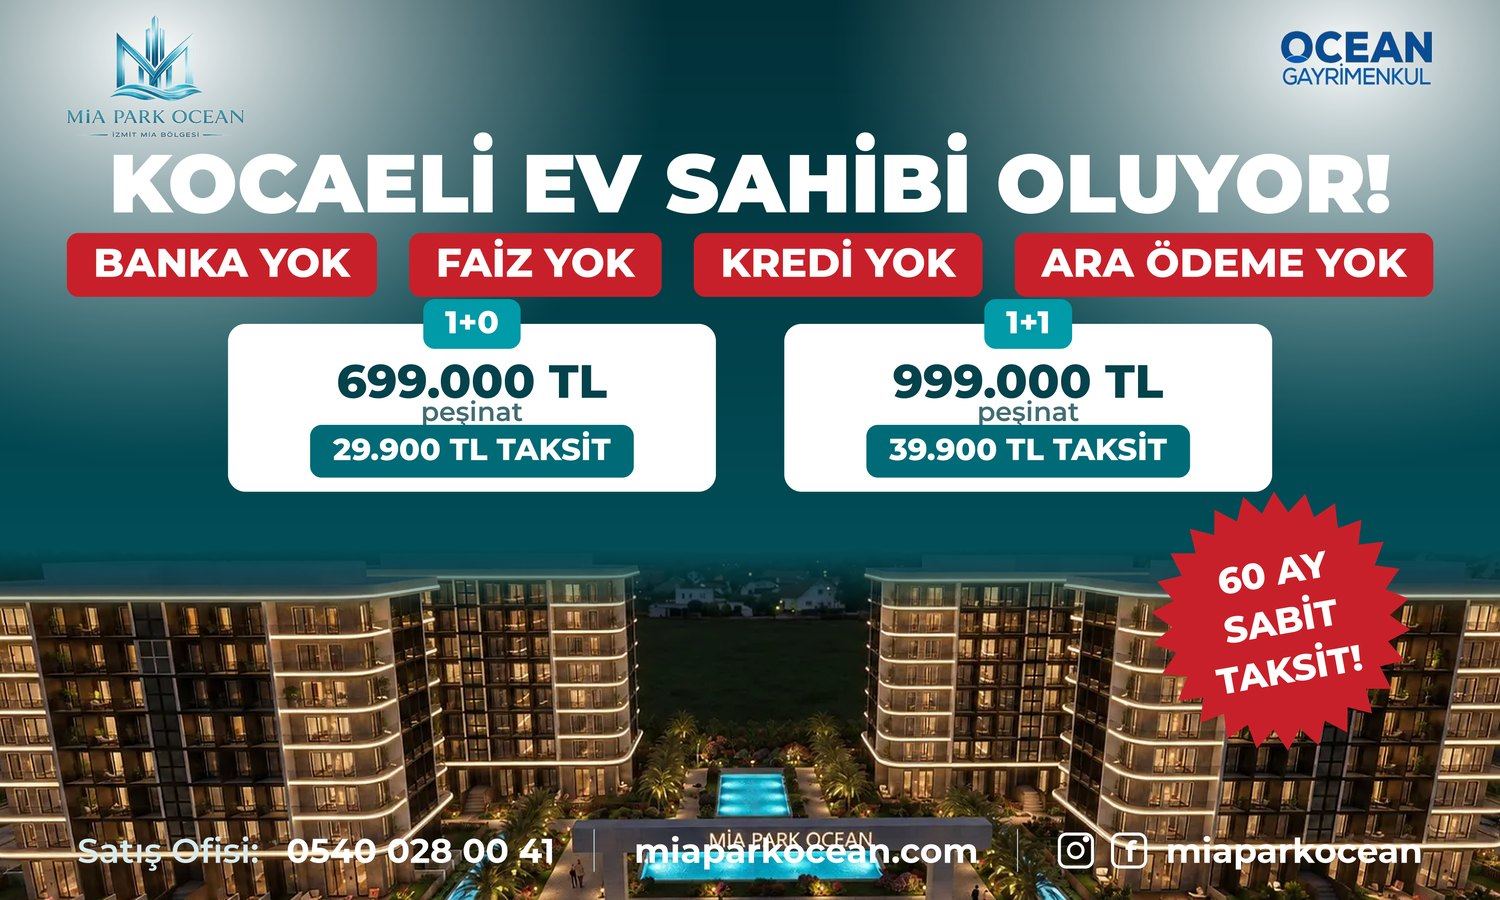
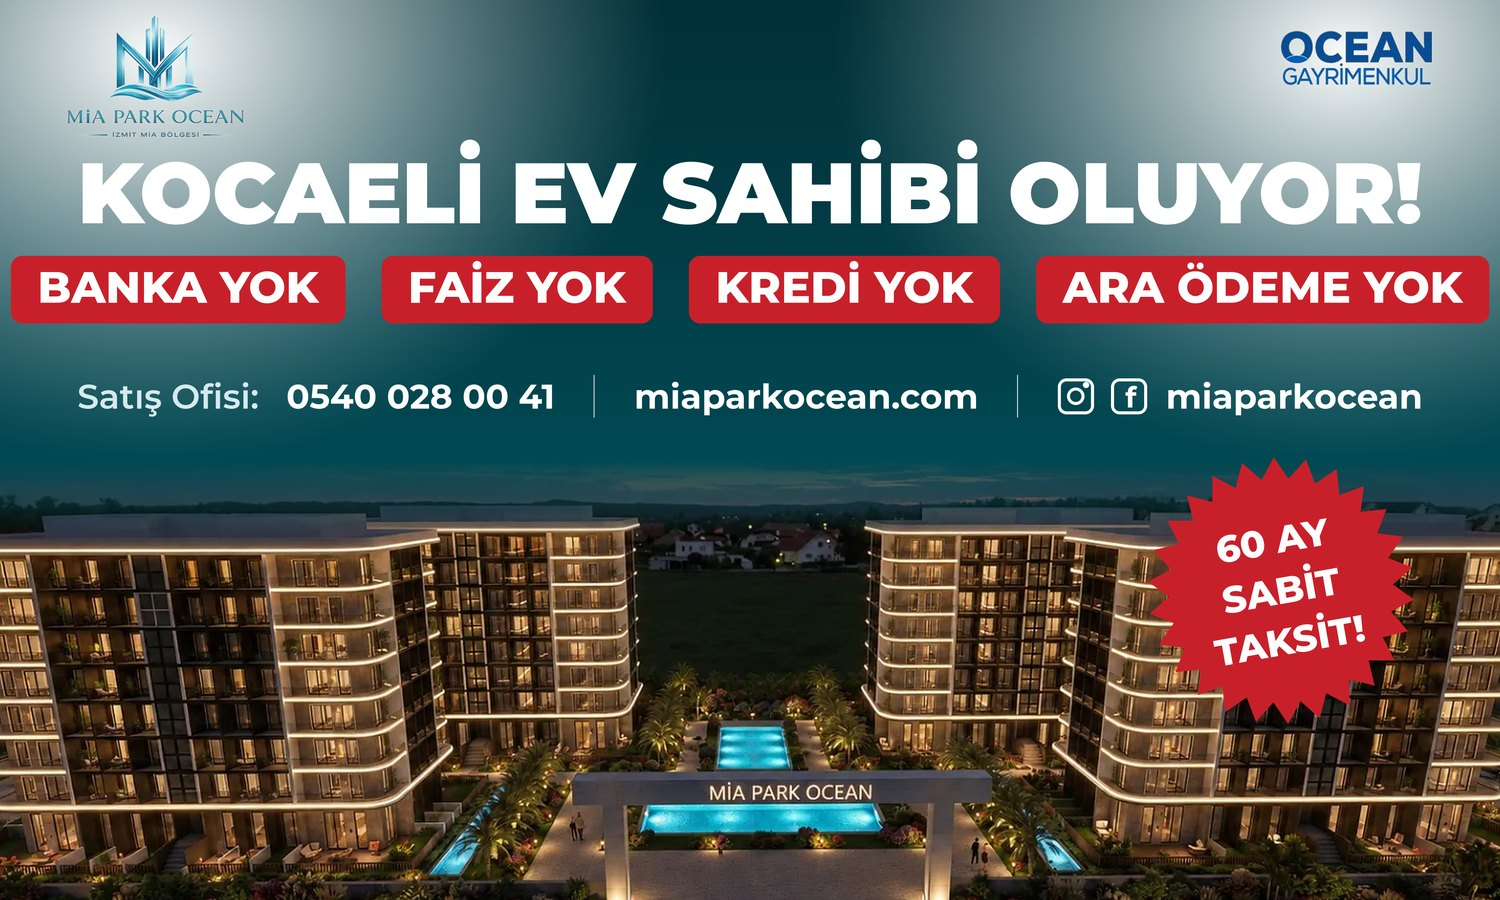
Gece Kocaeli 3x5: fiyatsız marka panosu
- 1+0/1+1 kartları kaldırıldı; iletişim satırı fotoğrafın üzerinden
  alınıp temiz petrol zemine taşındı (çipler ile foto arası)
- Gece fotoğrafı büyütüldü (2300 px şerit), kırmızı burgu gece göğünde
- zemin()/foto_alt() renk ve kare parametreleri kazandı

Claude-Session: https://claude.ai/code/session_014vbWeo5uAXPs6zFw9SmWv2

diff --git a/scripts/build-bilbord-3x5-turkuaz.py b/scripts/build-bilbord-3x5-turkuaz.py
@@ -167,20 +167,19 @@ def proje_alani():
 
 
 def gece():
-    """16 m'deki turkuaz-09'un (gece Kocaeli) 3x5 sürümü."""
+    """16 m'deki turkuaz-09'un 3x5 sürümü — FİYATSIZ marka panosu.
+    İletişim satırı fotoğrafın değil, temiz petrol zeminin üzerinde."""
     U, A = (3, 48, 56), (0, 96, 108)
     im = zemin(U, A)
-    foto_alt(im, 1850, bl=360, ad="night-gate.webp", ust=U, alt=A)
+    foto_alt(im, 2300, bl=380, ad="night-gate.webp", ust=U, alt=A)
     logolar(im)
     dr = ImageDraw.Draw(im)
-    dr.text((W / 2, 960), "KOCAELİ EV SAHİBİ OLUYOR!",
-            font=sigdir(dr, "KOCAELİ EV SAHİBİ OLUYOR!", "Black", 430,
+    dr.text((W / 2, 1010), "KOCAELİ EV SAHİBİ OLUYOR!",
+            font=sigdir(dr, "KOCAELİ EV SAHİBİ OLUYOR!", "Black", 470,
                         W - 2 * PAD), fill=BEYAZ, anchor="mm")
-    tz.yok_satiri(dr, W / 2, 1390, boy=210, ara=170)
-    tz.kartlar(dr, W / 2, 1700, cerceve=False)
-    yildiz(im, W - 1150, 3260, 680, ["60 AY", "SABİT", "TAKSİT!"], don=10)
-    dr = ImageDraw.Draw(im)
-    iletisim(dr, H - 260)
+    tz.yok_satiri(dr, W / 2, 1520, boy=230, ara=190)
+    iletisim(dr, 2080, boy=240)
+    yildiz(im, W - 1150, 3100, 700, ["60 AY", "SABİT", "TAKSİT!"], don=10)
     _ciktilar(im, "turkuaz-09-gece-3x5")
 
 
